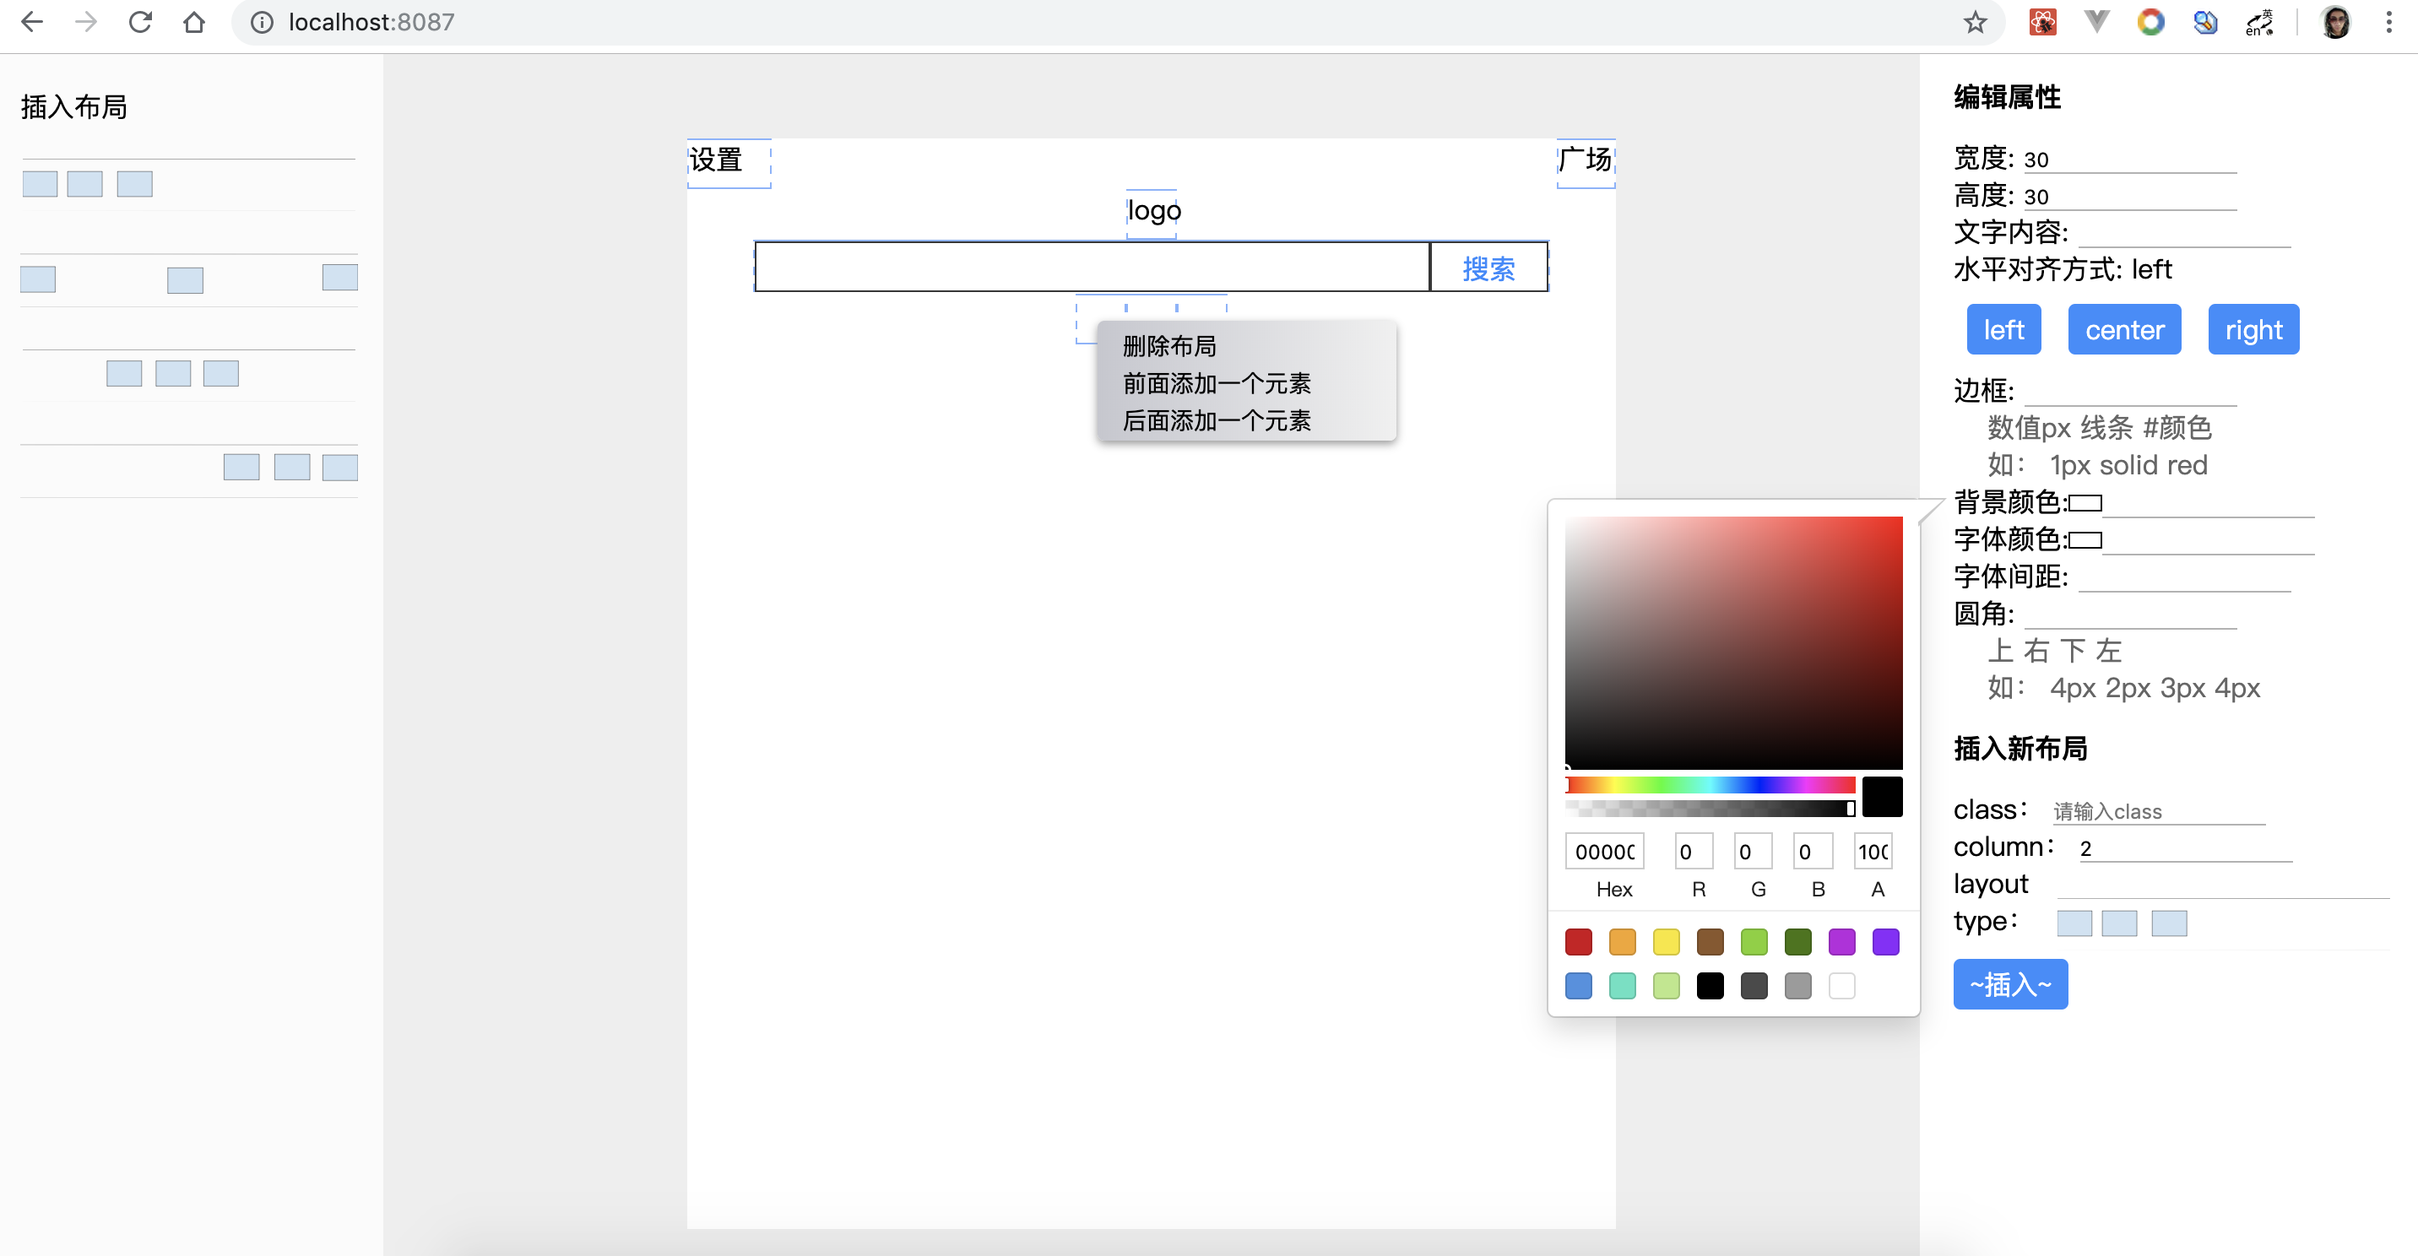
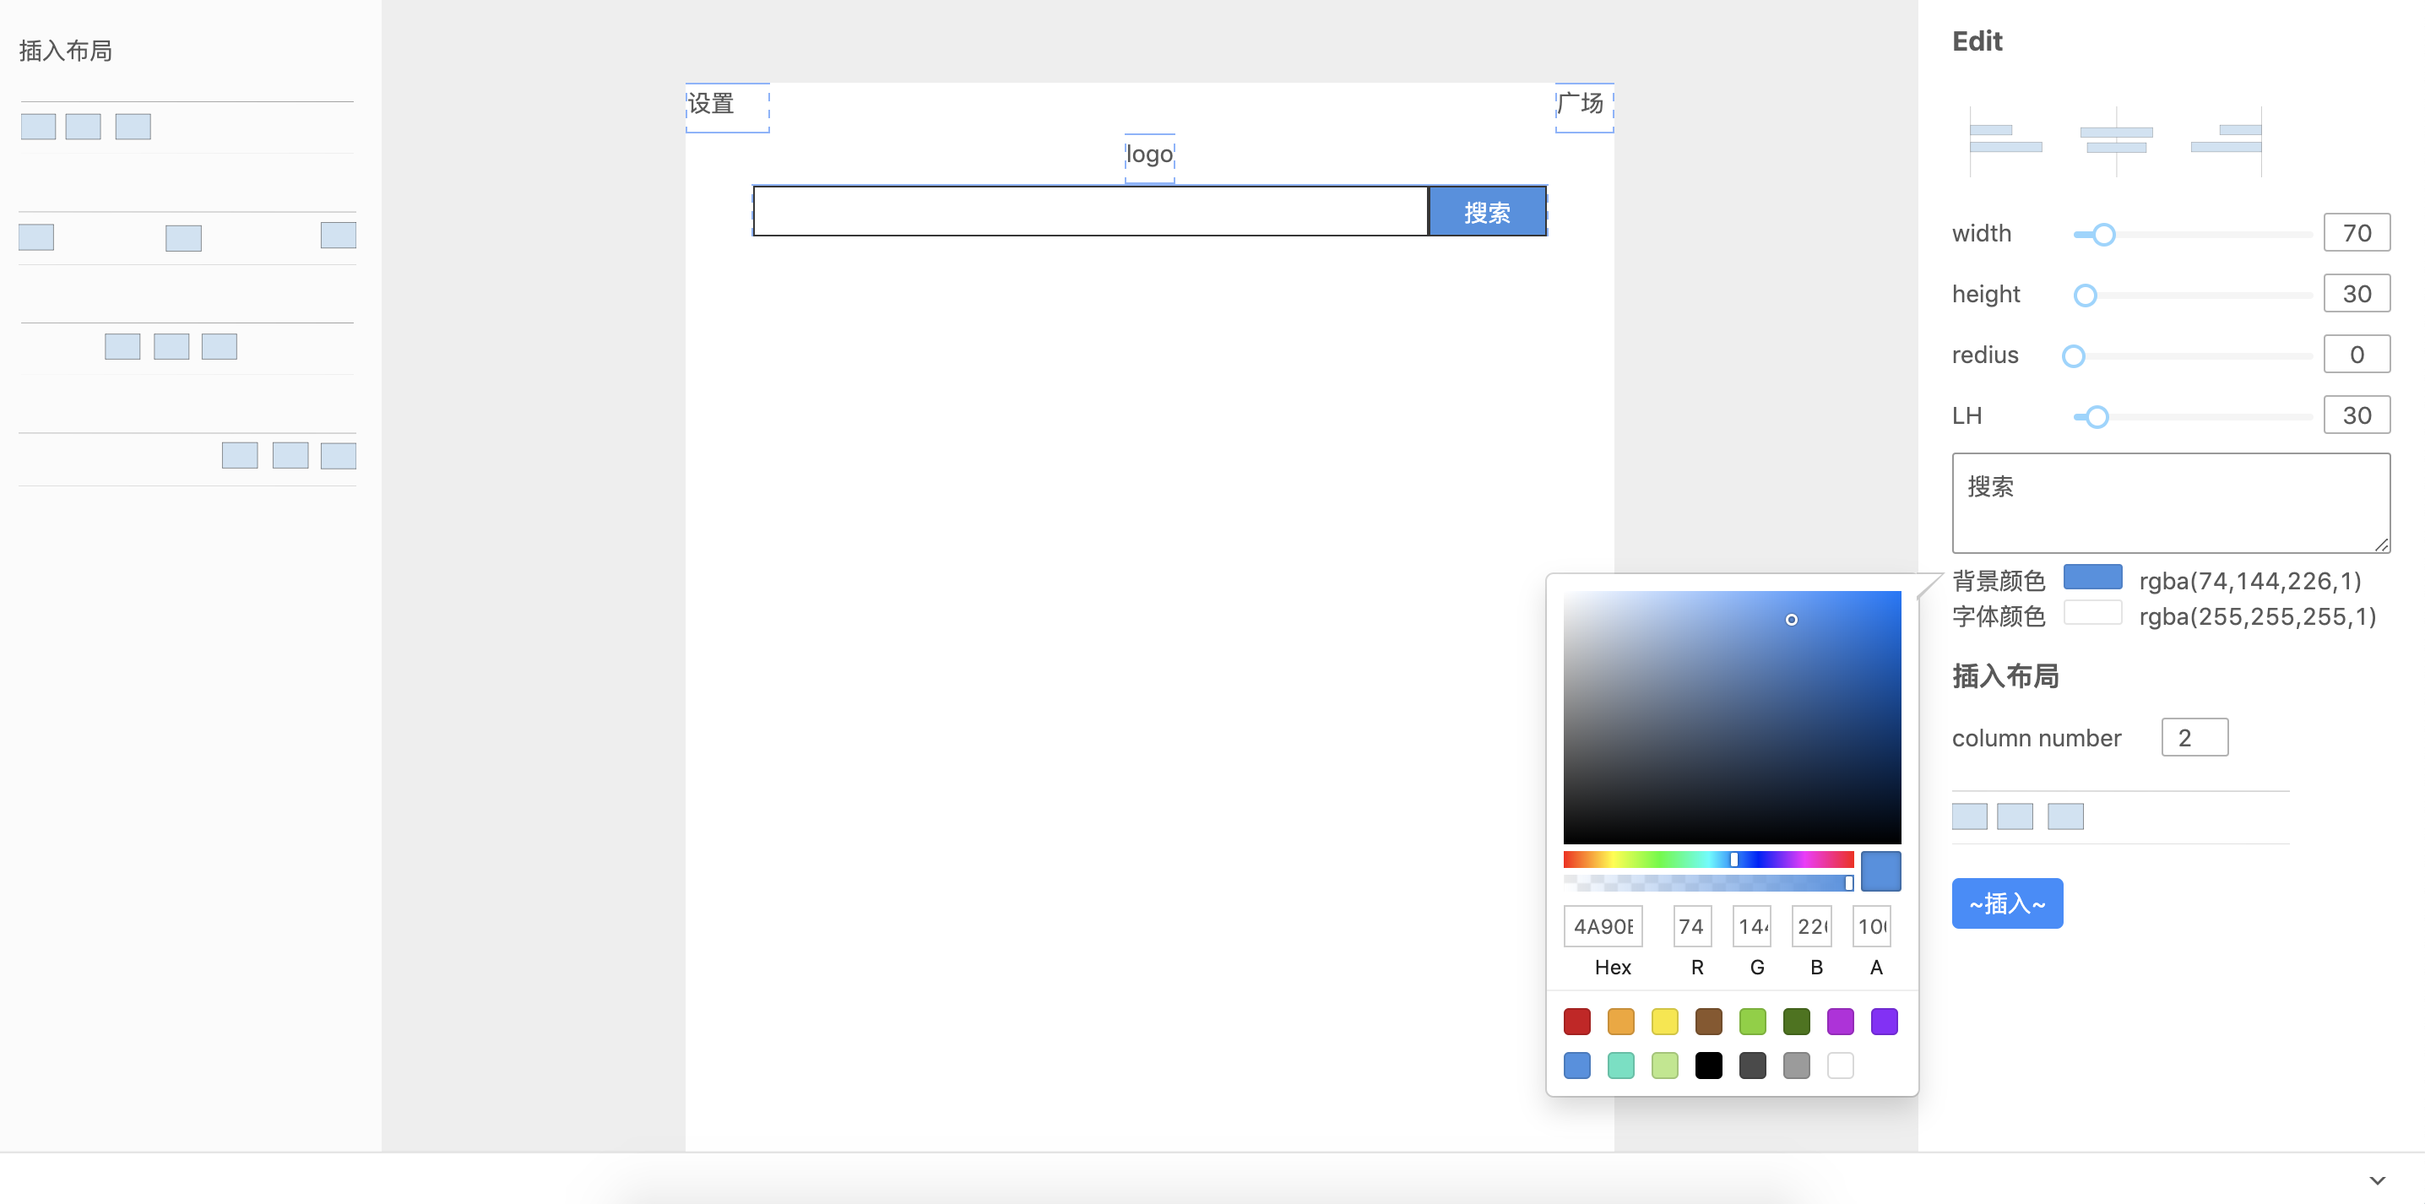
style

diff --git a/src/components/propertye_edit.tsx b/src/components/propertye_edit.tsx
@@ -134,21 +134,43 @@ class HandleColumn extends React.Component<Tprops, TSlassState>{
             done?: Tdone;
             type: string;
         }
+        let setTreeItemDataValue = (value: any) => {
+            let dataAst: TRowAST[] = setTreeData(props.previewAST, {
+                path: props.selectRowPath,
+                childrenName: 'children',
+                value
+            })
+            props.dispatch({
+                type: 'previewHTML',
+                html: createHtml(dataAst).view,
+                ast: dataAst
+            })
+        }
+        const setColor = (currentColor: string, key: string, val: boolean) => (e: MouseEvent) => {
+            this.setState({
+                isColorPick: val,
+                colorPickStyle: {
+                    ...this.state.colorPickStyle,
+                    top: `${e.clientY}px`,
+                },
+                colorPickProps: {
+                    color: currentColor,
+                    onChange: (color: any) => {
+                        setTreeItemDataValue({
+                            ...selectItem,
+                            style: {
+                                ...selectItem.style,
+                                [key]: `rgba(${color.rgb.r},${color.rgb.g},${color.rgb.b},${color.rgb.a})`
+                            }
+                        })
+                        return void 0
+                    }
+                }
+            })
+        }
         let LayoutWrite = (params: LayoutWritePro) => {
             switch (params.type) {
                 case 'edit': {
-                    let setTreeItemDataValue = (value: any) => {
-                        let dataAst: TRowAST[] = setTreeData(props.previewAST, {
-                            path: props.selectRowPath,
-                            childrenName: 'children',
-                            value
-                        })
-                        props.dispatch({
-                            type: 'previewHTML',
-                            html: createHtml(dataAst).view,
-                            ast: dataAst
-                        })
-                    }
                     let textAlignSelect = (align: string) => () => {
                         setTreeItemDataValue({
                             ...selectItem,
@@ -159,37 +181,22 @@ class HandleColumn extends React.Component<Tprops, TSlassState>{
                         })
                     }
                     let EditAttribute = () => {
-                        const setColor = (currentColor: string, key: string) => (e: MouseEvent) => {
-                            this.setState({
-                                isColorPick: !this.state.isColorPick,
-                                colorPickStyle: {
-                                    ...this.state.colorPickStyle,
-                                    top: `${e.clientY}px`,
-                                },
-                                colorPickProps: {
-                                    color: currentColor,
-                                    onChange: (color: any) => {
-                                        setTreeItemDataValue({
-                                            ...selectItem,
-                                            style: {
-                                                ...selectItem.style,
-                                                [key]: `rgba(${color.rgb.r},${color.rgb.g},${color.rgb.b},${color.rgb.a})`
-                                            }
-                                        })
-                                        return void 0
-                                    }
-                                }
-                            })
-                        }
                         return <div className="edit-attribute">
                             {this.state.isColorPick && <div className="color-box  sketch-color-price-box" style={this.state.colorPickStyle}>
                                 <SketchPicker color={this.state.colorPickProps.color} onChange={this.state.colorPickProps.onChange} />
                             </div>
                             }
-                            <div className="group-title-name">编辑属性</div>
+                            <div className="group-title-name">Edit</div>
+                            <div>
+                                <div className="select-button select-text-align">
+                                    <img onClick={textAlignSelect('left')} src={require(`../svg/text-left.svg`)} />
+                                    <img onClick={textAlignSelect('center')} src={require(`../svg/text-center.svg`)} />
+                                    <img onClick={textAlignSelect('right')} src={require(`../svg/text-right.svg`)} />
+                                </div>
+                            </div>
                             <div className="flex flex-space-x flex-center-y slider-text-box">
                                 <span className="name">width</span>
-                                <Slider max={600} min={1}  className="slider" defaultValue={selectItem.style.width ? +(selectItem.style.width.replace('px', '')) : 0} disabled={false} onChange={(e) => {
+                                <Slider max={550} min={1}  className="slider" defaultValue={selectItem.style.width ? +(selectItem.style.width.replace('px', '')) : 0} disabled={false} onChange={(e) => {
                                     setTreeItemDataValue({
                                         ...selectItem,
                                         style: {
@@ -287,10 +294,8 @@ class HandleColumn extends React.Component<Tprops, TSlassState>{
                                 }} />
                             </div>
                             <div>
-                                <textarea className="input-textarea" placeholder="文字输入区" defaultValue={selectItem.innerText} onChange={(e: any) => {
+                                <textarea className="input-textarea" placeholder="文字内容" defaultValue={selectItem.innerText} onChange={(e: any) => {
                                     let textValue = e.target.value
-                                    inputOldTime = +new Date()
-                                    inputKey = 'inputText'
                                     setTreeItemDataValue({
                                         ...selectItem,
                                         innerText: textValue
@@ -298,21 +303,10 @@ class HandleColumn extends React.Component<Tprops, TSlassState>{
                                     e.target.focus()
                                 }} />
                             </div>
-                            <div>
-                                <span>水平对齐方式: </span>
-                                <span>{selectItem.style['textAlign'] || 'left'}</span>
-                                <div className="select-button">
-                                    <span className="item" onClick={textAlignSelect('left')}>left</span>
-                                    <span className="item" onClick={textAlignSelect('center')}>center</span>
-                                    <span className="item" onClick={textAlignSelect('right')}>right</span>
-                                </div>
-                            </div>
-                            <div>
+                            {/* <div>
                                 <div className="flex">边框:
                                         <input style={{ width: '100px' }} defaultValue={selectItem.style.border || ''} onChange={(e: any) => {
                                         let v = e.target.value
-                                        inputOldTime = +new Date()
-                                        inputKey = 'inputBorder'
                                         setTreeItemDataValue({
                                             ...selectItem,
                                             style: {
@@ -326,13 +320,12 @@ class HandleColumn extends React.Component<Tprops, TSlassState>{
                                     <p>数值px 线条 #颜色</p>
                                     <p>如： 1px solid red</p>
                                 </div>
-                            </div>
-                            <div>背景颜色:
-                                <span onClick={setColor(selectItem.style.backgroundColor || '', 'backgroundColor')} className="showCurrentBackground" style={{ backgroundColor: selectItem.style.backgroundColor || '' }}></span>
+                            </div> */}
+                            <div className="color-set-box">
+                                <span>背景颜色</span>
+                                <span onClick={setColor(selectItem.style.backgroundColor || '', 'backgroundColor', !this.state.isColorPick)} className="showCurrentColor" style={{ backgroundColor: selectItem.style.backgroundColor || '' }}></span>
                                 <input defaultValue={selectItem.style.backgroundColor || ''} onChange={(e: any) => {
                                     let v = e.target.value
-                                    inputOldTime = +new Date()
-                                    inputKey = 'inputBackground'
                                     setTreeItemDataValue({
                                         ...selectItem,
                                         style: {
@@ -342,12 +335,11 @@ class HandleColumn extends React.Component<Tprops, TSlassState>{
                                     })
                                 }} />
                             </div>
-                            <div>字体颜色:
-                                <span onClick={setColor(selectItem.style.color || '', 'color')} className="showCurrentBackground" style={{ backgroundColor: selectItem.style.color || '' }}></span>
+                            <div className="color-set-box">
+                                <span className="name">字体颜色</span>
+                                <span onClick={setColor(selectItem.style.color || '', 'color', !this.state.isColorPick)} className="showCurrentColor" style={{ backgroundColor: selectItem.style.color || '' }}></span>
                                 <input defaultValue={selectItem.style.color || ''} onChange={(e: any) => {
                                     let v = e.target.value
-                                    inputOldTime = +new Date()
-                                    inputKey = 'inputColor'
                                     setTreeItemDataValue({
                                         ...selectItem,
                                         style: {
@@ -362,14 +354,13 @@ class HandleColumn extends React.Component<Tprops, TSlassState>{
                     if (selectItem.children.length === 0) {
                         return <div className="inner">
                             <EditAttribute />
-                            <div className="group-title-name">插入新布局</div>
-                            <div>class： <input defaultValue={className} onInput={classNameChange} placeholder="请输入class" /></div>
-                            <div>column： <input defaultValue={layoutColumn} type="number" onInput={layoutColumnChange} placeholder="请输入列数" /></div>
+                            <div className="group-title-name">插入布局</div>
+                            {/* <div>class <input defaultValue={className} onInput={classNameChange} placeholder="请输入class" /></div> */}
+                            <div>column number <input className="cloumn" defaultValue={layoutColumn} type="number" onInput={layoutColumnChange} placeholder="请输入列数" /></div>
                             <div className="flex">
-                                <p>layout type：</p>
                                 <Select activeIndex={0} list={layoutTypeList} change={SelectChange} />
                             </div>
-                            <div className="button" onClick={() => {
+                            <div className="button inert-layout-button" onClick={() => {
                                 let itemAst: TRowAST = getRowInfo()
                                 setTreeItemDataValue(itemAst)
                             }}>~插入~</div>
@@ -425,7 +416,13 @@ class HandleColumn extends React.Component<Tprops, TSlassState>{
                 }
             }
         }
-        return <div className="HandleColumn">
+        return <div className="HandleColumn" onClick={() => {
+                if(this.state.isColorPick){
+                    this.setState({
+                        isColorPick: false,
+                    })
+                }
+            }}>
             <div>
                 {selectItem ? <div>
                     {/* <div className="title-name">Edit Element Layout</div> */}

diff --git a/src/style.scss b/src/style.scss
@@ -4,7 +4,9 @@
         background-position: 100%;
     }
 }
-
+body{
+    user-select: none;
+}
 // var
 $color-main: #388bfe;
 *{
@@ -175,11 +177,23 @@ input{
                 border-right-width: 17px;
             }
         }
-        .showCurrentBackground{
-            display: inline-block;
-            width: 20px;
-            height: 10px;
-            border: 1px solid;
+        .color-set-box{
+            .name{
+                width: 50px;
+            }
+            .showCurrentColor{
+                display: inline-block;
+                width: 35px;
+                height: 15px;
+                border: 1px solid rgba(0, 0, 0, .1);
+                border-radius: 2px;
+                margin-left: 10px;
+                margin-right: 10px;
+            }
+            input{
+                width: 147px;
+                border-width: 0px;
+            }
         }
         .button{
             display: inline-block;
@@ -188,6 +202,16 @@ input{
             border-radius: 4px;
             @extend .full-block;    
             cursor: pointer;
+        }
+        .inert-layout-button{
+            margin-top: 20px;
+        }
+        .cloumn{
+            margin-left: 20px;
+            width: 40px;
+            border: 1px solid rgba(0, 0, 0, 0.3);
+            border-radius: 2px;
+            text-align: center;
         }
         .button-delect{
             margin-left: 20px;
@@ -215,6 +239,12 @@ input{
                 color: #fff;
                 background: #388bfe;
                 margin: 10px 8px;
+            }
+        }
+        .select-text-align{
+            margin: 14px 0px;
+            img{
+                width: 25%;
             }
         }
         .otherInfo{

diff --git a/src/test/model/ast.ts b/src/test/model/ast.ts
@@ -1,0 +1,2 @@
+import {TRowAST} from '../../types/index'
+export const TEST_ast: TRowAST[] = [{"tag":"div","css":["flex","al-flex-space-between-x",""],"style":{},"children":[{"tag":"div","css":[],"style":{"width":"50px","height":"px","backgroundColor":""},"innerText":"设置","children":[]},{"tag":"div","css":[],"style":{"width":"35px","height":"30px"},"innerText":"广场","children":[]}]},{"tag":"div","css":["flex","al-flex-center-x",""],"style":{"width":"550px"},"children":[{"tag":"div","css":[],"style":{"width":"30px","height":"30px"},"innerText":"logo","children":[]}]},{"tag":"div","css":["flex","al-flex-center-x",""],"style":{"border":"","width":"550px"},"children":[{"tag":"div","css":["flex","al-flex-center-x",""],"style":{},"children":[{"tag":"div","css":[],"style":{"width":"400px","height":"30px","border":"1px solid #363636"},"innerText":"","children":[]},{"tag":"div","css":[],"style":{"width":"70px","height":"30px","textAlign":"center","color":"#38f","lineHeight":"30px","border":"1px solid #363636"},"innerText":"搜索","children":[]}]}]}]

diff --git a/src/reducer/index.ts b/src/reducer/index.ts
@@ -1,4 +1,5 @@
 import {TRowAST, Tstore} from '../types/index'
+import {TEST_ast} from '../test/model/ast'
 
 interface TpreviewActive {
     type: string,
@@ -17,6 +18,8 @@ interface Tactive extends TbaseActive, TselectRowPath, TpreviewActive{}
 
 const defaultState: Tstore = {
     previewHTML: '',
+    // previewAST: TEST_ast,
+    // selectRowPath: [2,0,0],
     previewAST: [],
     selectRowPath: []
 }
